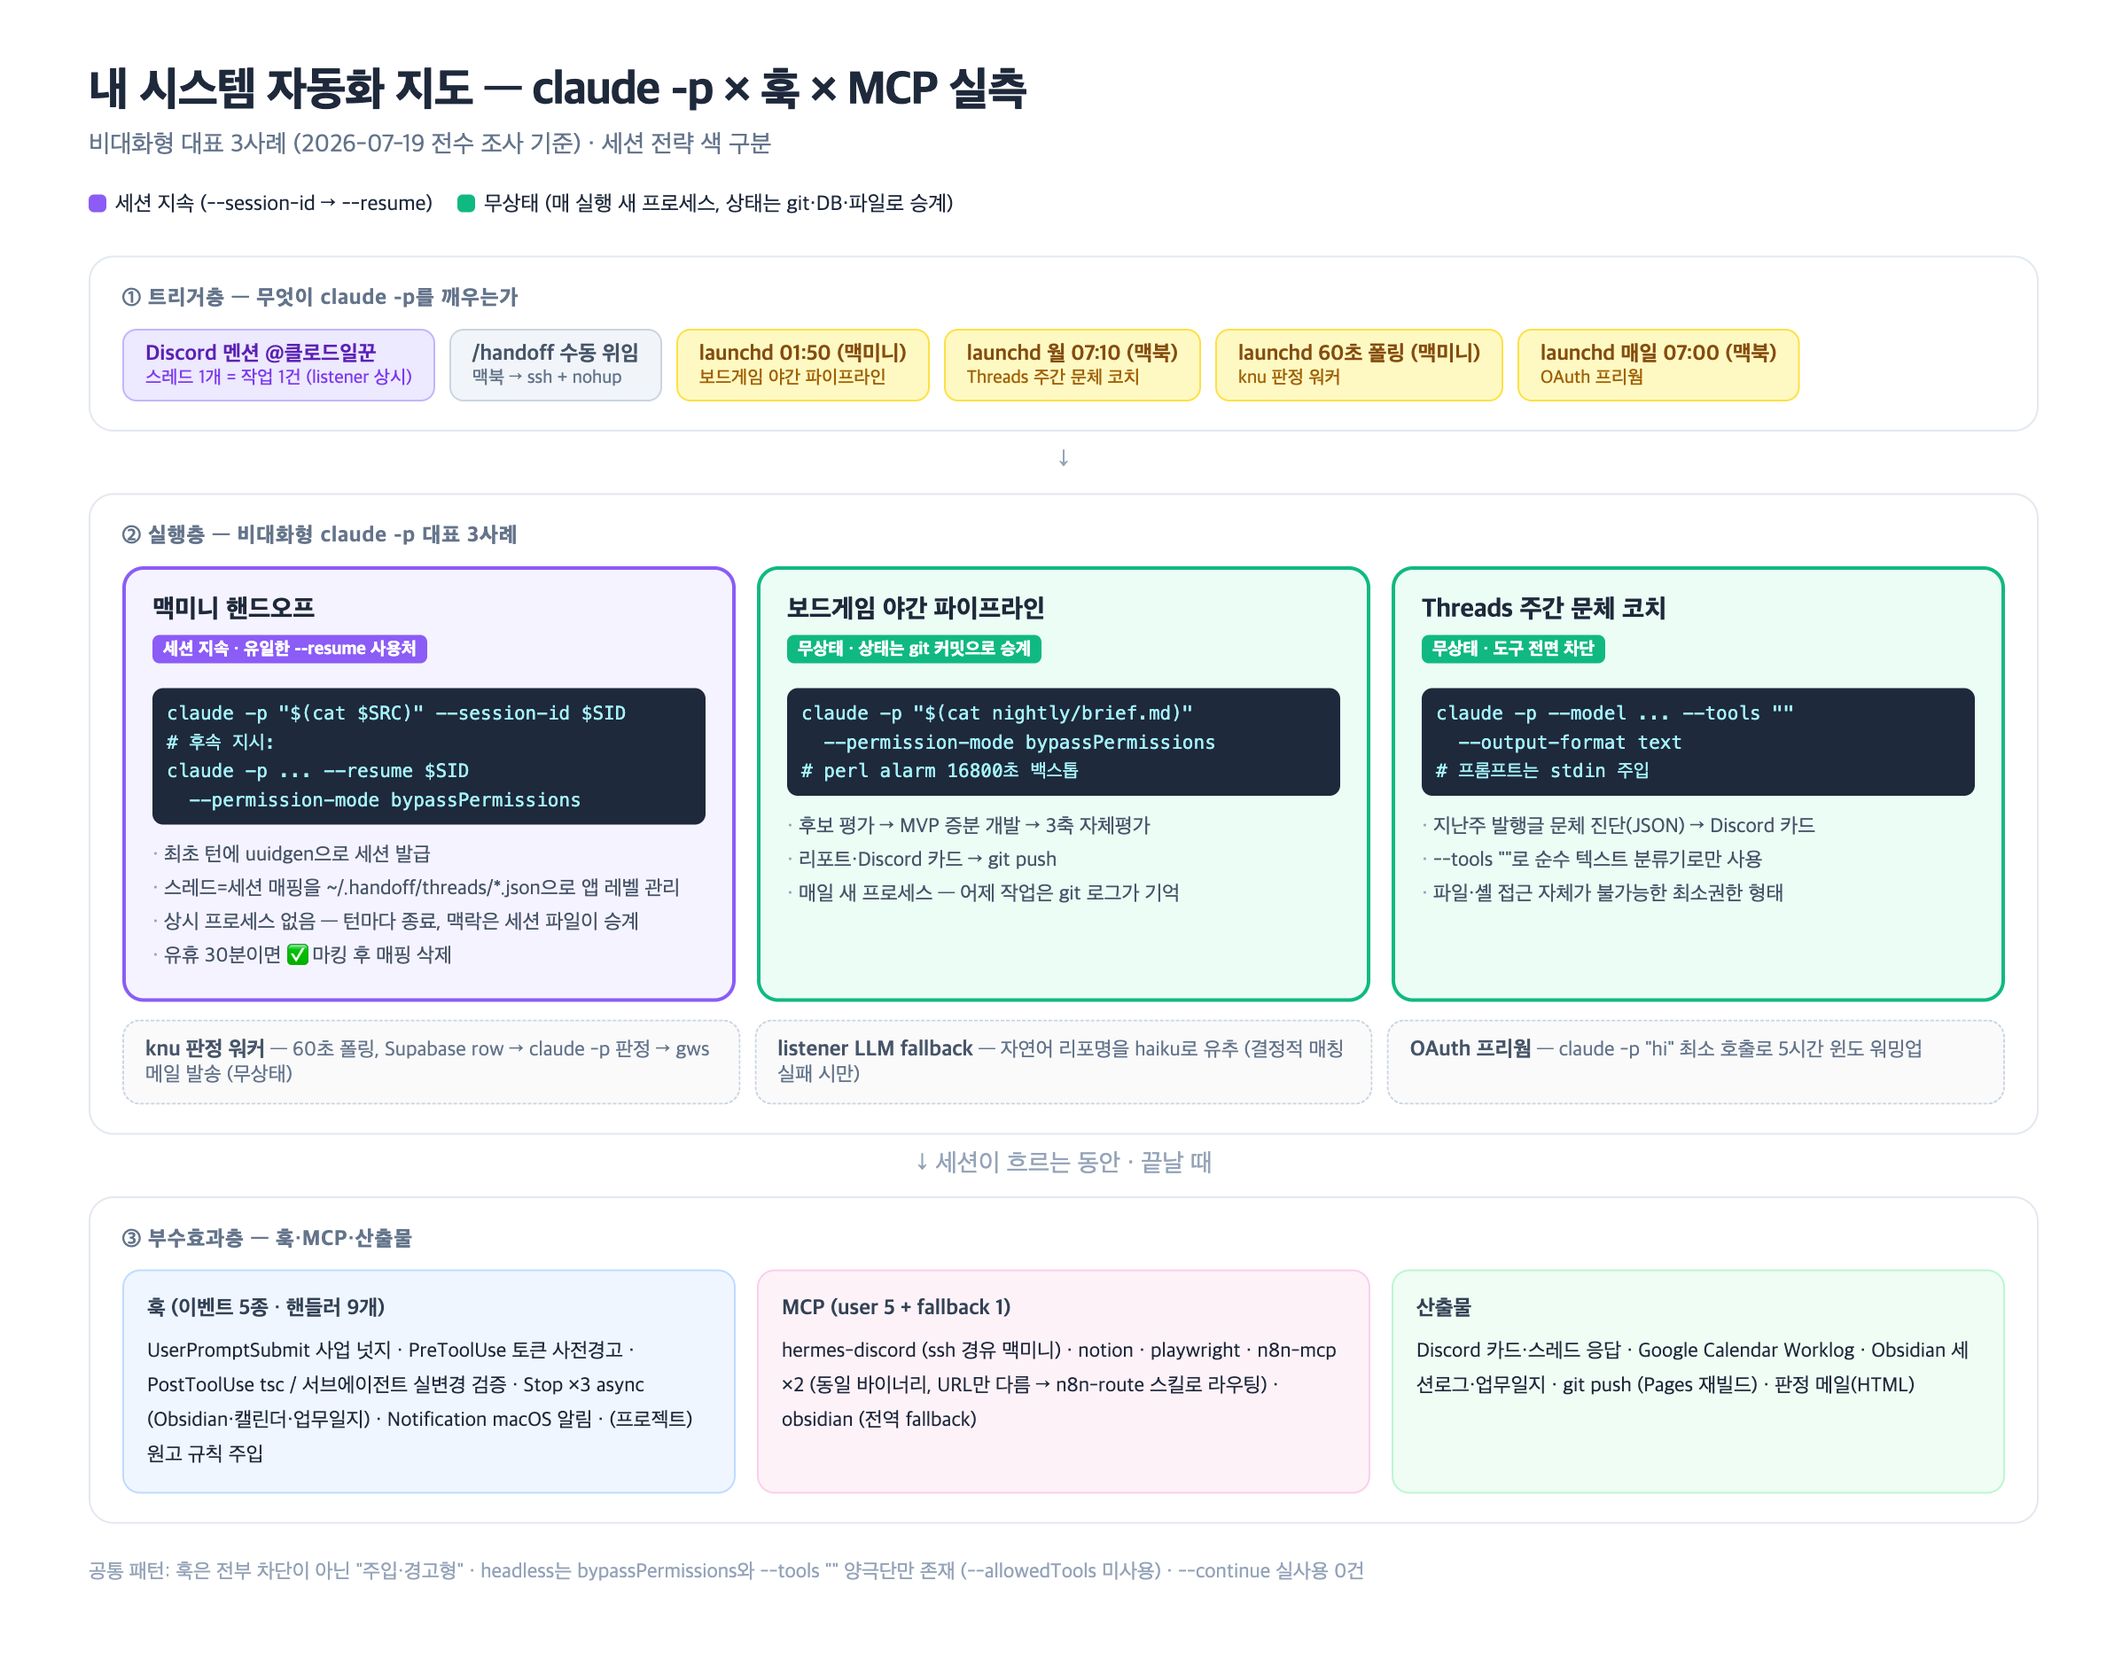
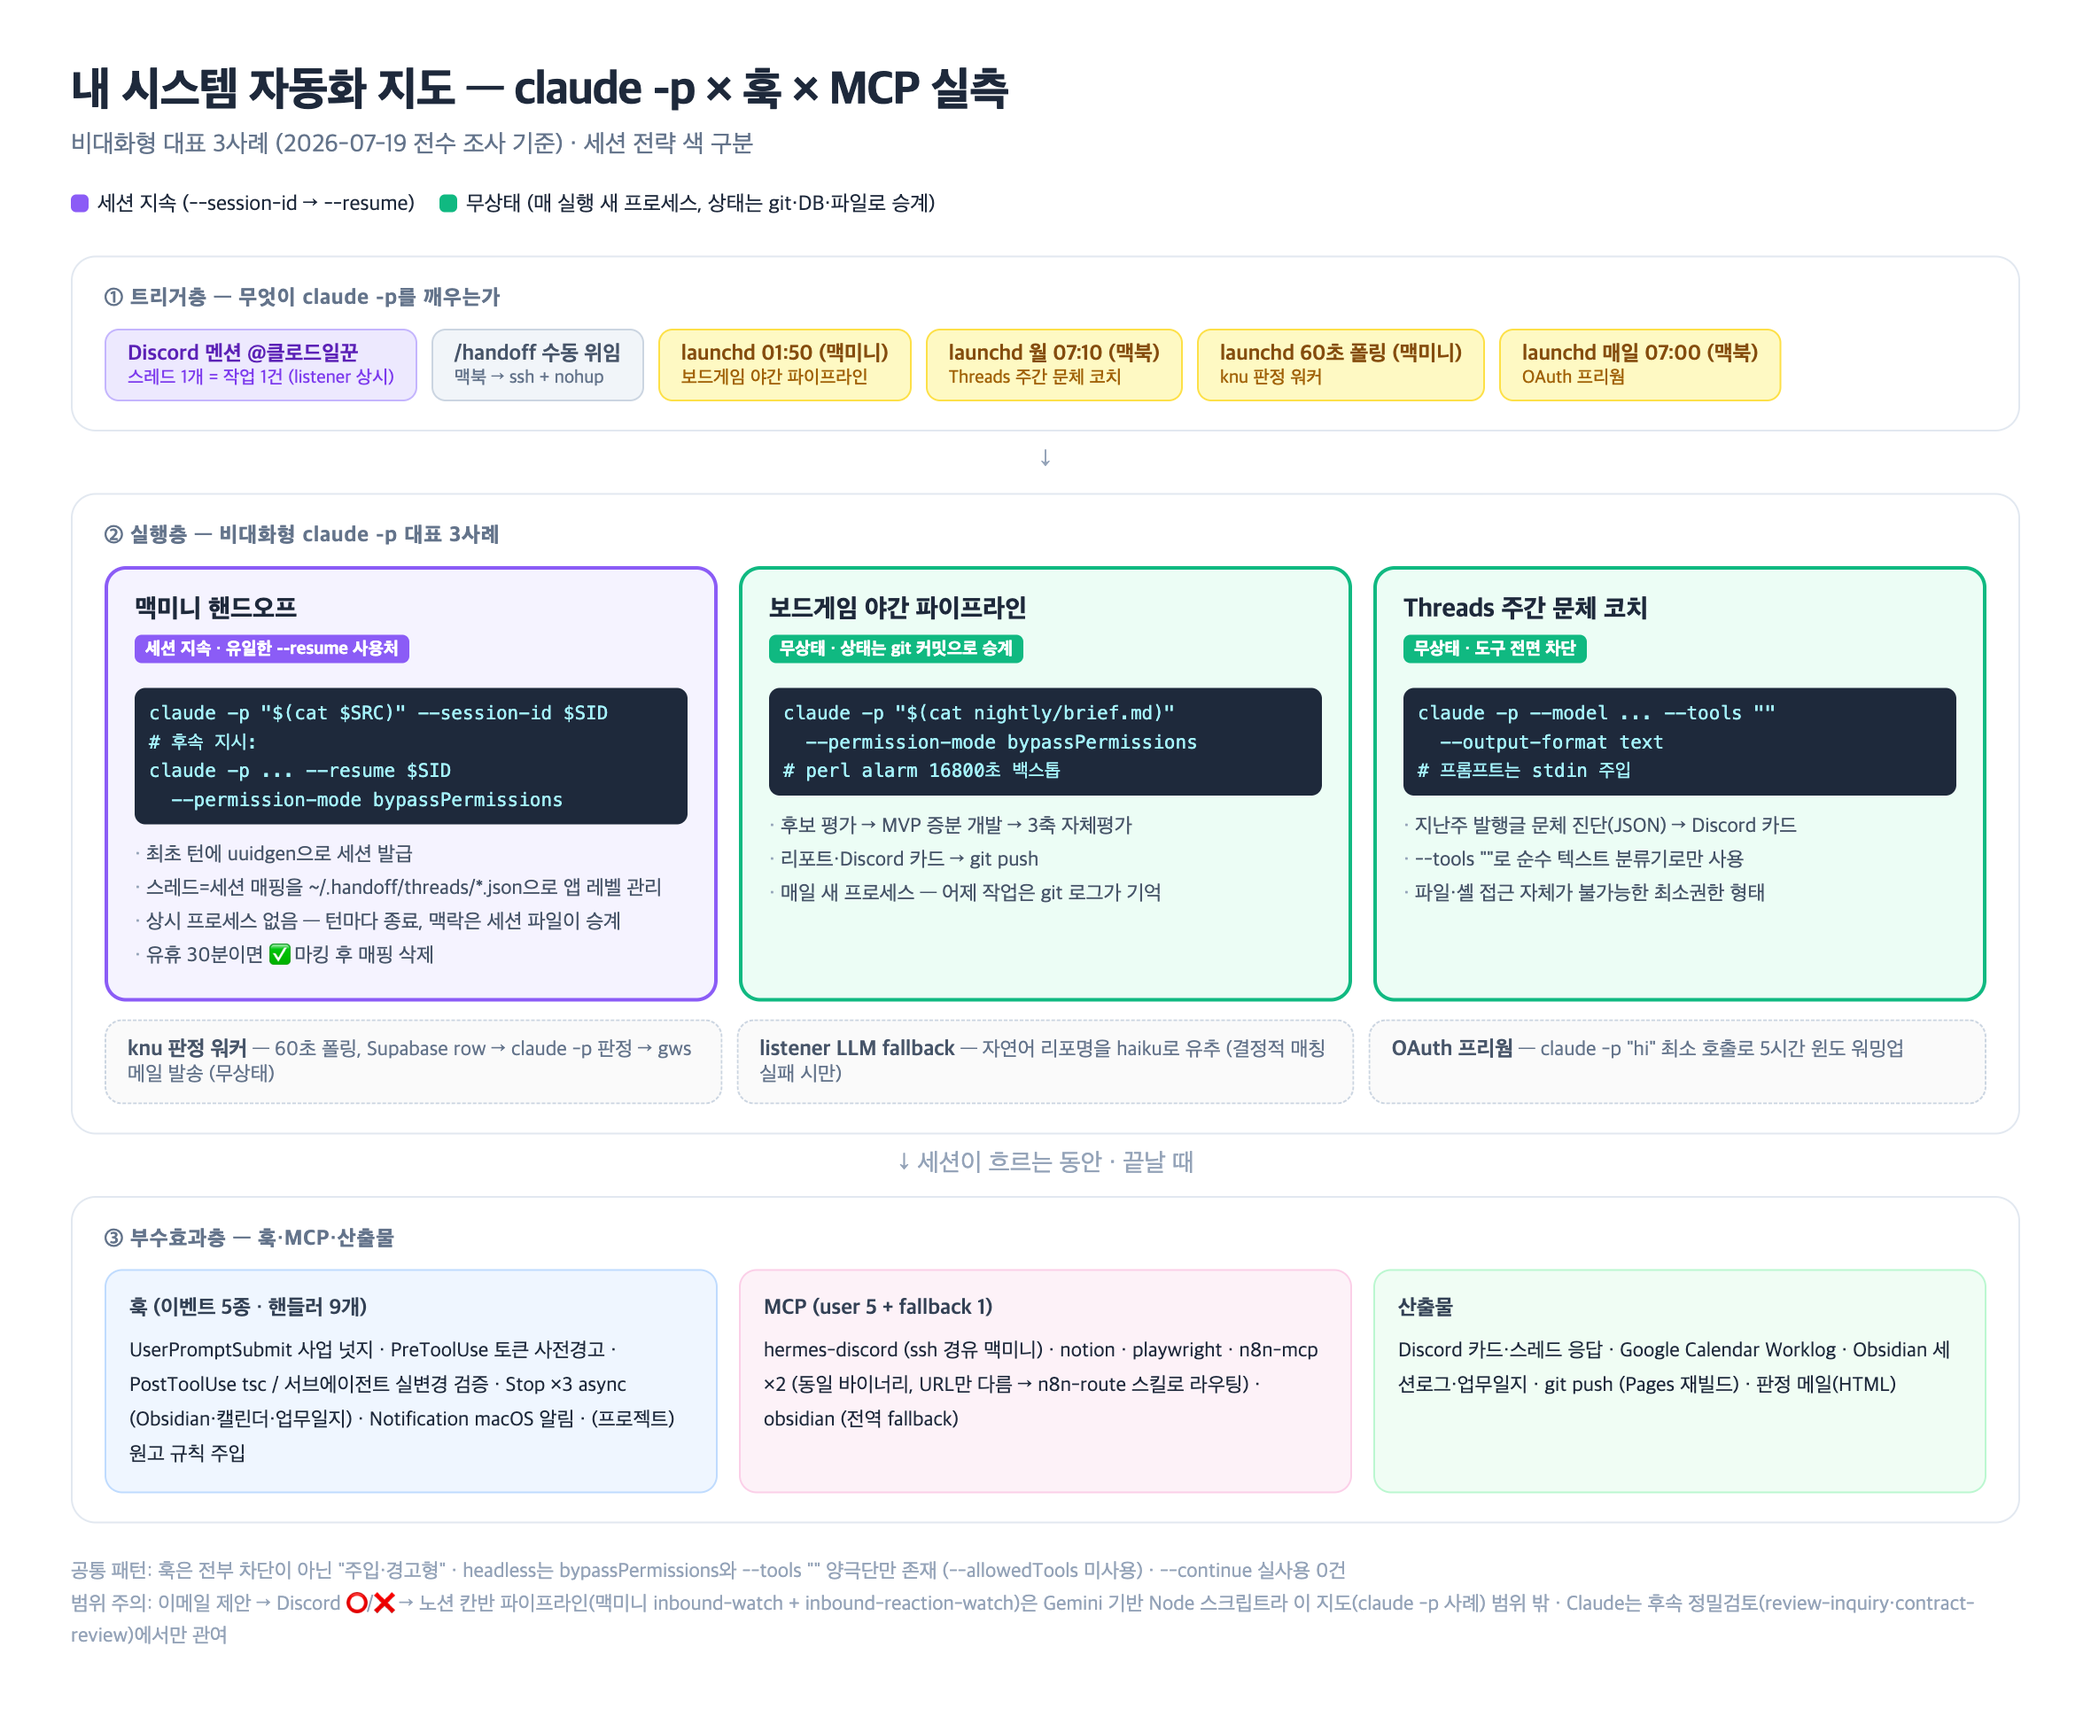
docs(ch07): 교통정리 2번 재교정 — 이메일→칸반 파이프라인은 Gemini 스크립트(claude -p 아님), 지도에 범위 각주

diff --git a/chapters/ch07/임정/automation-map.html b/chapters/ch07/임정/automation-map.html
@@ -132,7 +132,8 @@ claude -p ... --resume $SID
     </div>
   </div>
 
-  <div class="foot">공통 패턴: 훅은 전부 차단이 아닌 "주입·경고형" · headless는 bypassPermissions와 --tools "" 양극단만 존재 (--allowedTools 미사용) · --continue 실사용 0건</div>
+  <div class="foot">공통 패턴: 훅은 전부 차단이 아닌 "주입·경고형" · headless는 bypassPermissions와 --tools "" 양극단만 존재 (--allowedTools 미사용) · --continue 실사용 0건<br>
+  범위 주의: 이메일 제안 → Discord ⭕/❌ → 노션 칸반 파이프라인(맥미니 inbound-watch + inbound-reaction-watch)은 Gemini 기반 Node 스크립트라 이 지도(claude -p 사례) 범위 밖 · Claude는 후속 정밀검토(review-inquiry·contract-review)에서만 관여</div>
 </div>
 </body>
 </html>

diff --git a/chapters/ch07/임정/README.md b/chapters/ch07/임정/README.md
@@ -3,7 +3,7 @@
 - **관통 주제 (발표 핵심 1개)**: 내 자동화는 "차단"이 아니라 "주입" — 훅·headless·MCP 전부 흐름을 끊지 않는 부수효과로 설계되어 있었다
 - **⚠ 교통정리 3건**
   1. 책의 훅 이벤트는 18개(그림 7-2 + 표 7-1·7-2) — 공식 문서 기준 현재 **30개**. 삭제된 건 없고 12개가 추가됨 (Setup, UserPromptExpansion, MessageDisplay, PostToolBatch, PermissionDenied, TaskCreated, StopFailure, CwdChanged, FileChanged, PostCompact, Elicitation, ElicitationResult) [1]
-  2. 내 인식 교정: "이메일 제안 → Discord o/x → 노션 칸반"은 headless `claude -p`가 아니라 **대화형 스킬**(kanban·review-inquiry)로 돌고 있었음 — 비대화형 자동화는 별개 7사례
+  2. 내 인식 교정(재교정 2026-07-19): "이메일 제안 → Discord o/x → 노션 칸반"은 headless로 도는 게 맞으나 그 주체가 `claude -p`가 아니라 **Gemini 기반 Node 스크립트 2개**였음 — 맥미니 launchd `inbound-watch`(매시간: gws Gmail 폴링 → Gemini 분류·요약 → Notion 수주판단 DB + Discord 카드) + `inbound-reaction-watch`(5분: ⭕/❌ 리액션 폴링 → 칸반 진행/거절). Claude는 그 뒤 **정밀검토 단계**(대화형 스킬 review-inquiry·contract-review)에서만 등장 — 자동화 계층(Gemini)과 판단 계층(Claude 대화형)의 2단 구조
   3. `--resume` 실사용은 맥미니 핸드오프 **단 1곳**, `--continue`/`-c`는 전 워크스페이스에서 **0건** — "다양하게 썼다"는 기억과 실측이 달랐음
 - **조사 방식**: sonnet Explore 서브에이전트 3개 fan-out (① 훅·MCP·플러그인 설정 ② claude -p 전수 grep ③ 저장소 규격) + 공식 문서(`code.claude.com/docs/en/hooks.md`) 원문 curl 대조
 
